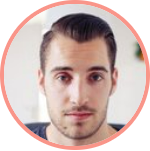
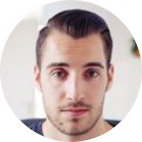
Replace photos

diff --git a/src/index.html b/src/index.html
@@ -19,29 +19,34 @@
       <script type="text/javascript" src="../build/app.js"></script>
 
       <header>
+         <div class="upper-header">
+            <a class="title" href="#">
+               <img src="\src\images\title.png" alt="Teachfinder">
+            </a>
 
-         <a href="#">
-            <img src="\src\images\title.png" alt="Teachfinder">
-         </a>
+            <form>
+               <input type="text" placeholder="Name, note or age to search">
+               <button class="search">Search</button>
+            </form>
+         </div>
 
-         <nav class="page-nav">
-            <ul>
-               <li><a href="#">Teachers</a></li>
-               <li><a href="#">Statistics</a></li>
-               <li><a href="#">Favorites</a></li>
-               <li><a href="#">About</a></li>
-            </ul>
-         </nav>
+         <div class="low-header">
+            <nav class="page-nav">
+               <ul>
+                  <li><a href="#">Teachers</a></li>
+                  <li><a href="#">Statistics</a></li>
+                  <li><a href="#">Favorites</a></li>
+                  <li><a href="#">About</a></li>
+               </ul>
+            </nav>
 
-         <form>
-            <input type="text" placeholder="Name, note or age to search">
-            <button class="search">Search</button>
-         </form>
+            <button class="add-teacher">Add teacher</button>
 
-         <button class="add-teacher">Add teacher</button>
+         </div>
+
       </header>
 
-      <section class="top-teacherss">
+      <section class="top-teachers">
 
          <hr/>
          <h2>Top Teachers</h2>
@@ -268,13 +273,13 @@
          </article>
      
          <article class="teacher_card">
-            <img src="\src\images\photo_5_2.png"\>
+            <img src="\src\images\photo_5.png"\>
             <h3>Ari Tang</h3>
             <h5>China</h5>
          </article>
      
          <article class="teacher_card">
-            <img src="\src\images\photo_3_2.png"\>
+            <img src="\src\images\photo_3.png"\>
             <h3>Floor Jansen</h3>
             <h5>Denmark</h5>
          </article>
@@ -287,16 +292,18 @@
          <p>Lorem ipsum dolor sit amet, consectetur adipisicing elit. Aliquam eligendi illum in inventore ipsum odio officiis omnis quisquam sed tempora?</p>
          <p>Lorem ipsum dolor sit amet, consectetur adipisicing elit. A atque esse expedita id iusto mollitia, odit sint ullam veritatis vero?</p>
          
-         <nav class="page-nav">
+         <div clas="lower">
+            <nav class="page-nav">
              <ul>
-                 <li><a href="#">Teachers</a></li>
-                 <li><a href="#">Statistics</a></li>
-                 <li><a href="#">Favorites</a></li>
-                 <li><a href="#">About</a></li>
-             </ul>
-         </nav>
- 
-         <button class="add-teacher">Add teacher</button>
+                  <li><a href="#">Teachers</a></li>
+                  <li><a href="#">Statistics</a></li>
+                  <li><a href="#">Favorites</a></li>
+                  <li><a href="#">About</a></li>
+               </ul>
+            </nav>
+   
+            <button class="add-teacher">Add teacher</button>
+         </div>
      </footer>
   </body>
 </html>
